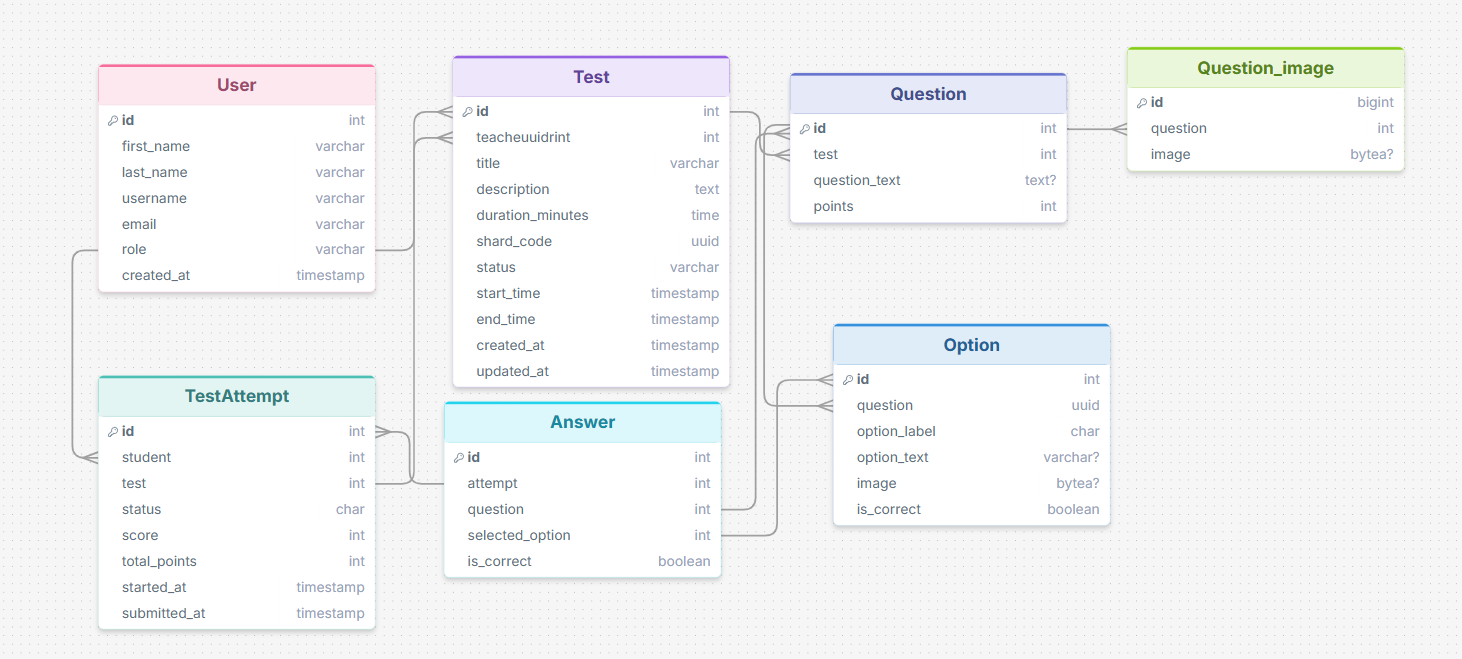
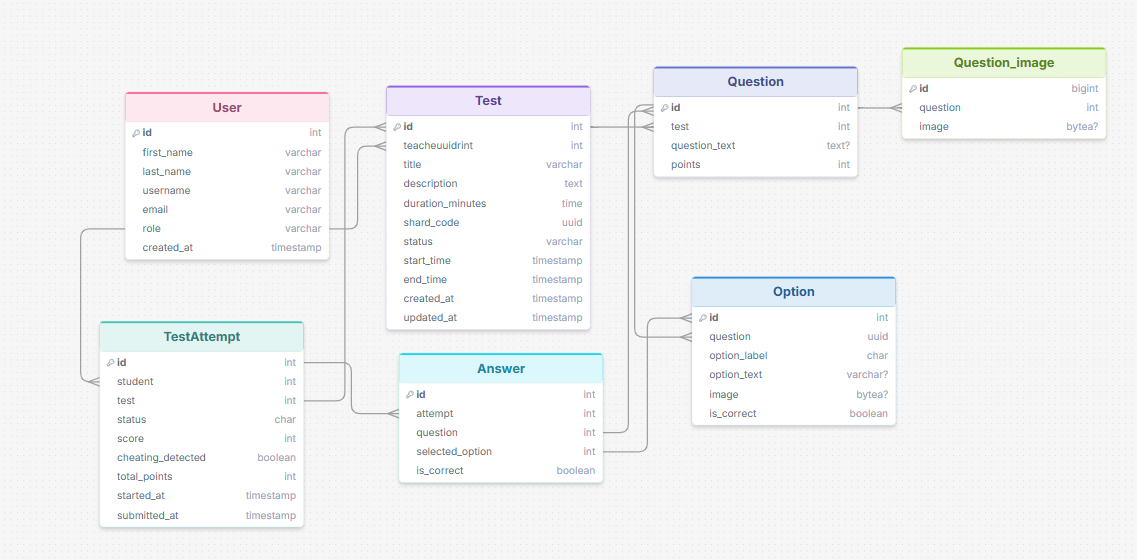
feat: implement cheating detection

Changed region(s): [[0.0308, 0.0607, 0.985, 0.9714], [0.5541, 0.0911, 0.7388, 0.1518]]

diff --git a/templates/tests/test_take.html b/templates/tests/test_take.html
@@ -11,12 +11,18 @@
   .option-label:hover { border-color: #a5b4fc; background: #f5f3ff; }
   .option-label input[type=radio] { accent-color: #6366f1; width: 16px; height: 16px; flex-shrink: 0; }
   .option-label.selected { border-color: #6366f1; background: #eef2ff; }
+  .cheating-warning { display: none; background: #fee2e2; border: 2px solid #dc2626; color: #991b1b; padding: 1rem; border-radius: 8px; margin-bottom: 1rem; font-weight: 600; text-align: center; }
+  .cheating-warning.show { display: block; }
 </style>
 {% endblock %}
 {% block content %}
 <div style="display:flex;align-items:center;justify-content:space-between;margin-bottom:1.5rem;">
   <h1 style="font-size:1.3rem;font-weight:700;">{{ test.title }}</h1>
   <div class="timer" id="timer" data-duration-minutes="{{ test.duration_minutes }}">⏱ {{ test.duration_minutes }}:00</div>
+</div>
+
+<div class="cheating-warning" id="cheating-warning">
+  ⚠️ Tab switching detected! Your test has been submitted with a grade of F.
 </div>
 
 <form method="post" id="test-form" novalidate>
@@ -63,4 +69,86 @@
 {% endblock %}
 {% block extra_js %}
 <script src="{% static 'js/app.js' %}"></script>
+<script>
+// Detect tab switching and cheating
+document.addEventListener("DOMContentLoaded", () => {
+    const attemptId = "{{ attempt.pk }}";
+    const testForm = document.getElementById("test-form");
+    const cheatingWarning = document.getElementById("cheating-warning");
+    let cheatingDetected = false;
+
+    // CSRF Token for POST requests
+    const getCookie = (name) => {
+        let cookieValue = null;
+        if (document.cookie && document.cookie !== "") {
+            const cookies = document.cookie.split(";");
+            for (let i = 0; i < cookies.length; i++) {
+                const cookie = cookies[i].trim();
+                if (cookie.substring(0, name.length + 1) === name + "=") {
+                    cookieValue = decodeURIComponent(cookie.substring(name.length + 1));
+                    break;
+                }
+            }
+        }
+        return cookieValue;
+    };
+
+    const csrftoken = getCookie("csrftoken");
+
+    // Report cheating to the server
+    const reportCheating = () => {
+        if (cheatingDetected) return; // Already reported
+        cheatingDetected = true;
+
+        // Show warning
+        cheatingWarning.classList.add("show");
+
+        // Disable form submission
+        testForm.style.opacity = "0.5";
+        testForm.style.pointerEvents = "none";
+
+        // Send cheating detection to server
+        fetch(`/attempts/${attemptId}/cheating-detected/`, {
+            method: "POST",
+            headers: {
+                "X-CSRFToken": csrftoken,
+                "Content-Type": "application/json",
+            },
+            body: JSON.stringify({ cheating: true }),
+        })
+        .then(response => response.json())
+        .then(data => {
+            if (data.success) {
+                // Redirect after a delay
+                setTimeout(() => {
+                    window.location.href = data.redirect_url;
+                }, 2000);
+            }
+        })
+        .catch(error => console.error("Error reporting cheating:", error));
+    };
+
+    // Listen for visibility changes (tab switch)
+    document.addEventListener("visibilitychange", () => {
+        if (document.hidden) {
+            console.log("Tab switched away - cheating detected!");
+            reportCheating();
+        }
+    });
+
+    // Listen for window blur (focus lost)
+    window.addEventListener("blur", () => {
+        console.log("Window lost focus - cheating detected!");
+        reportCheating();
+    });
+
+    // Listen for beforeunload (attempting to leave the page)
+    window.addEventListener("beforeunload", (e) => {
+        if (!cheatingDetected) {
+            console.log("Attempting to leave page - cheating detected!");
+            reportCheating();
+        }
+    });
+});
+</script>
 {% endblock %}

diff --git a/templates/tests/test_results.html b/templates/tests/test_results.html
@@ -1,5 +1,18 @@
 {% extends "tests/base.html" %}
 {% block title %}Results — {{ test.title }}{% endblock %}
+{% block extra_css %}
+<style>
+  .cheating-badge {
+    background: #fee2e2;
+    color: #991b1b;
+    padding: 0.3rem 0.6rem;
+    border-radius: 4px;
+    font-size: 0.8rem;
+    font-weight: 600;
+    display: inline-block;
+  }
+</style>
+{% endblock %}
 {% block content %}
 <div class="page-header">
   <div>
@@ -19,6 +32,7 @@
         <th>Score</th>
         <th>Percentage</th>
         <th>Grade</th>
+        <th>Status</th>
         <th>Submitted</th>
       </tr>
     </thead>
@@ -40,6 +54,13 @@
           </div>
         </td>
         <td><strong>{{ attempt.grade }}</strong></td>
+        <td>
+          {% if attempt.cheating_detected %}
+          <span class="cheating-badge">⚠️ Cheating Detected</span>
+          {% else %}
+          <span style="color:#666; font-size: 0.8rem;">Normal</span>
+          {% endif %}
+        </td>
         <td style="font-size:.8rem;color:#888;">{{ attempt.submitted_at|date:"M d, Y H:i" }}</td>
       </tr>
       {% endfor %}

diff --git a/templates/tests/test_score.html b/templates/tests/test_score.html
@@ -3,11 +3,29 @@
 {% block title %}Result — {{ attempt.test.title }}{% endblock %}
 {% block extra_css %}
 <link rel="stylesheet" href="{% static 'css/test_score_style.css' %}">
+<style>
+  .cheating-alert {
+    background: #fee2e2;
+    border: 2px solid #dc2626;
+    color: #991b1b;
+    padding: 1rem;
+    border-radius: 8px;
+    margin-bottom: 1.5rem;
+    font-weight: 600;
+    text-align: center;
+  }
+</style>
 {% endblock %}
 
 {% block content %}
 {% with correct_count=attempt.answers.filter.is_correct %}
 <div style="max-width:700px;margin:0 auto;">
+
+  {% if attempt.cheating_detected %}
+  <div class="cheating-alert">
+    ⚠️ CHEATING DETECTED: Tab switching or page navigation detected during the test. Grade: F
+  </div>
+  {% endif %}
 
   <!-- Hero -->
   <div class="result-hero">

diff --git a/test_app/views.py b/test_app/views.py
@@ -3,6 +3,8 @@ from django.contrib.auth.decorators import login_required
 from django.contrib import messages
 from django.utils import timezone
 from django.db import transaction
+from django.http import JsonResponse
+from django.views.decorators.http import require_POST
 
 from .models import Test, Question, Option, QuestionImage, TestAttempt, Answer
 from .forms import TestForm, QuestionForm, OptionFormSet
@@ -219,9 +221,23 @@ def test_start_view(request, pk):
 
 @student_required
 def test_take_view(request, pk):
-    attempt   = get_object_or_404(
-        TestAttempt, pk=pk, student=request.user, status=TestAttempt.Status.IN_PROGRESS
-    )
+    # Try to get IN_PROGRESS attempt
+    try:
+        attempt = TestAttempt.objects.get(
+            pk=pk, student=request.user, status=TestAttempt.Status.IN_PROGRESS
+        )
+    except TestAttempt.DoesNotExist:
+        # Check if already submitted
+        try:
+            submitted_attempt = TestAttempt.objects.get(pk=pk, student=request.user)
+            if submitted_attempt.status == TestAttempt.Status.SUBMITTED:
+                messages.warning(request, "This test has already been submitted. You cannot retake it.")
+                return redirect("test_score", pk=submitted_attempt.pk)
+        except TestAttempt.DoesNotExist:
+            pass
+        # If not found at all, 404
+        return get_object_or_404(TestAttempt, pk=pk, student=request.user)
+    
     test      = attempt.test
     questions = test.questions.prefetch_related("options", "images").all()
 
@@ -266,4 +282,27 @@ def test_score_view(request, pk):
     ).prefetch_related("question__options").order_by("question__order_index")
     return render(request, "tests/test_score.html", {
         "attempt": attempt, "answers": answers,
+    })
+
+
+@student_required
+@require_POST
+def cheating_detected_view(request, pk):
+    """Mark test attempt as cheating (tab switch detected)."""
+    attempt = get_object_or_404(
+        TestAttempt, pk=pk, student=request.user, status=TestAttempt.Status.IN_PROGRESS
+    )
+    
+    # Mark as cheating and auto-submit the test
+    with transaction.atomic():
+        attempt.cheating_detected = True
+        attempt.status = TestAttempt.Status.SUBMITTED
+        attempt.submitted_at = timezone.now()
+        attempt.score = 0  # Set score to 0 for cheating
+        attempt.save()
+    
+    return JsonResponse({
+        "success": True,
+        "message": "Test submitted due to tab switching. Grade: F",
+        "redirect_url": f"/attempts/{attempt.pk}/score/"
     })

diff --git a/test_app/migrations/0002_testattempt_cheating_detected.py b/test_app/migrations/0002_testattempt_cheating_detected.py
@@ -1,0 +1,18 @@
+# Generated migration to add cheating_detected field
+
+from django.db import migrations, models
+
+
+class Migration(migrations.Migration):
+
+    dependencies = [
+        ('test_app', '0001_initial'),
+    ]
+
+    operations = [
+        migrations.AddField(
+            model_name='testattempt',
+            name='cheating_detected',
+            field=models.BooleanField(default=False),
+        ),
+    ]

diff --git a/test_app/models.py b/test_app/models.py
@@ -88,13 +88,14 @@ class TestAttempt(models.Model):
         IN_PROGRESS = "in_progress", "In Progress"
         SUBMITTED   = "submitted",   "Submitted"
 
-    student      = models.ForeignKey(settings.AUTH_USER_MODEL, on_delete=models.CASCADE, related_name="attempts")
-    test         = models.ForeignKey(Test, on_delete=models.CASCADE, related_name="attempts")
-    status       = models.CharField(max_length=15, choices=Status.choices, default=Status.IN_PROGRESS)
-    score        = models.PositiveIntegerField(default=0)
-    total_points = models.PositiveIntegerField(default=0)
-    started_at   = models.DateTimeField(auto_now_add=True)
-    submitted_at = models.DateTimeField(null=True, blank=True)
+    student            = models.ForeignKey(settings.AUTH_USER_MODEL, on_delete=models.CASCADE, related_name="attempts")
+    test               = models.ForeignKey(Test, on_delete=models.CASCADE, related_name="attempts")
+    status             = models.CharField(max_length=15, choices=Status.choices, default=Status.IN_PROGRESS)
+    score              = models.PositiveIntegerField(default=0)
+    total_points       = models.PositiveIntegerField(default=0)
+    started_at         = models.DateTimeField(auto_now_add=True)
+    submitted_at       = models.DateTimeField(null=True, blank=True)
+    cheating_detected  = models.BooleanField(default=False)
 
     class Meta:
         db_table = "test_attempts"
@@ -112,6 +113,8 @@ class TestAttempt(models.Model):
 
     @property
     def grade(self):
+        if self.cheating_detected:
+            return "F"
         p = self.percentage
         if p >= 90: return "A"
         if p >= 80: return "B"

diff --git a/test_app/urls.py b/test_app/urls.py
@@ -23,4 +23,5 @@ urlpatterns = [
     path("tests/<int:pk>/start/",                 views.test_start_view,          name="test_start"),
     path("attempts/<int:pk>/take/",               views.test_take_view,           name="test_take"),
     path("attempts/<int:pk>/score/",              views.test_score_view,          name="test_score"),
+    path("attempts/<int:pk>/cheating-detected/",  views.cheating_detected_view,   name="cheating_detected"),
 ]

diff --git a/README.md b/README.md
@@ -1,11 +1,14 @@
 # ASSESSMENT Platform
 A MCQ assessment taking platform.
 - Teacher can create MCQ Test
-- Auto shared code for students
+- MCQ question types text and image
 - Teacher can see all students submitted test results
 - Student can participate the test using shared code
 - After complete the test student can see there results
 
+Detect cheating:
+- if students create new tab
+- if students go to another tab
 ## ER diagram
 
 ![ER diagram](./github_images/ER_image.png)
@@ -15,7 +18,6 @@ A MCQ assessment taking platform.
 ### Prerequisites
 
 - Python 3.11+
-- pip
 
 ---
 